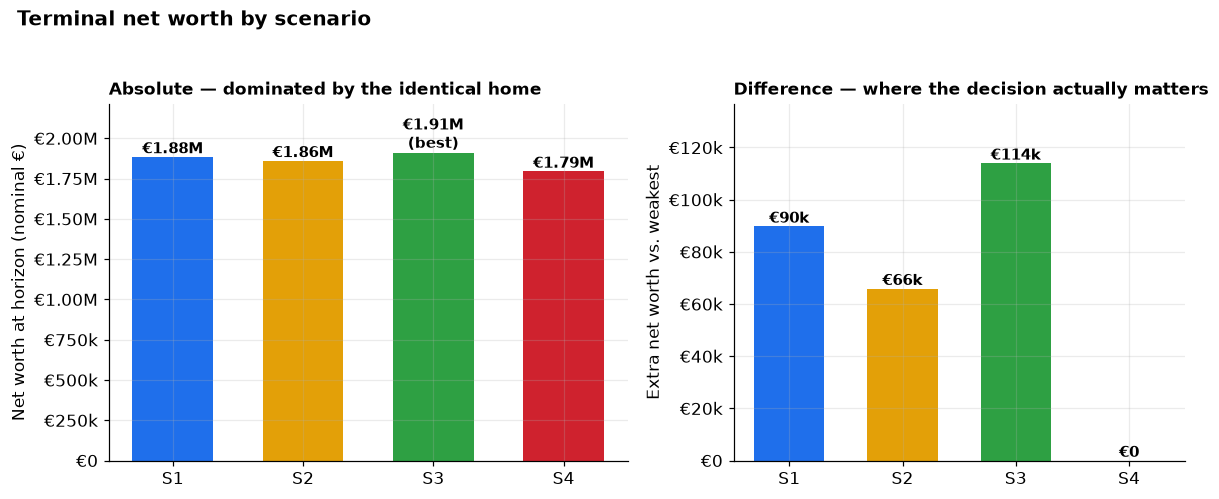
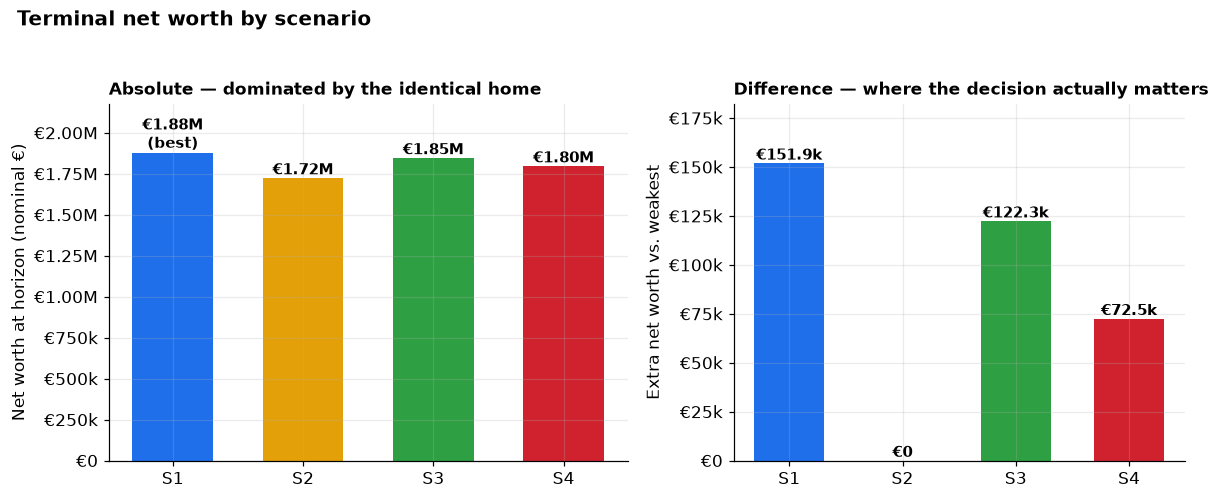
Roll sale/savings equity into home purchases (realistic financing)
Add configurable financing_mode (default roll_equity): down payment uses
all available cash beyond a buffer, so selling home 1 funds home 2 instead
of carrying a second full-size mortgage alongside the annuity (fixes S2's
unrealistic Y5-15 outflow). Update report narrative, assumptions table and
outflow caption; tidy euro axis formatting.

diff --git a/generate_report.py b/generate_report.py
@@ -112,23 +112,28 @@ def build_markdown(A, results, grid, sweep_inv, sweep_app):
       f"the **same debt-free home**, so *every difference is opportunity cost, "
       f"financing and fees — not the house itself.*")
     w()
+    second = ranked[1]
+    gap_top2 = nw[best] - nw[second]
     w("**Two findings dominate:**")
     w()
     w(f"1. **The lijfrente is priced attractively.** Its total outlay "
       f"({eur(lij_total)} = {eur(A.lijfrente_upfront)} up front + "
       f"{eur(A.lijfrente_monthly)} × {A.lijfrente_years * 12} months) is *below* the "
-      f"{eur(A.valuation_now)} market value and is spread over {A.lijfrente_years} "
-      f"years — effectively cheap financing for the very same asset. That is why "
-      f"**buying a normal home now ({sc('s4_buy_normal_now')}) is dominated**: it is "
-      f"the most expensive way to own the identical house.")
-    w(f"2. **The tie-breaker between the two front-runners** "
-      f"({sc('s1_lijfrente_movein')} lijfrente vs {sc('s3_rent_then_normal')} "
-      f"rent-then-buy) is whether your investment return "
-      f"({pct(A.investment_return_annual)}) beats house appreciation "
-      f"({pct(A.house_appreciation_annual)}). It does in the base case, so keeping the "
-      f"{eur(A.cash_capital)} invested longer ({sc('s3_rent_then_normal')}) edges ahead; "
-      f"flip that relationship and the lijfrente ({sc('s1_lijfrente_movein')}) wins "
-      f"(see Exhibit 6).")
+      f"{eur(A.valuation_now)} market value, is spread over {A.lijfrente_years} years, "
+      f"and needs almost no mortgage — effectively cheap financing for the very same "
+      f"asset. Conversely, **buying a normal home now ({sc('s4_buy_normal_now')})** is "
+      f"the most expensive way to own the identical house: the biggest mortgage and the "
+      f"most interest ({eur(results['s4_buy_normal_now'].summary['total_interest'])}).")
+    w(f"2. **The two leaders — {sc(best)} and {sc(second)} — are within "
+      f"{eur(gap_top2)} of each other** (~{gap_top2 / nw[second] * 100:.0f}%), so which "
+      f"one wins is a close call that turns on two levers you control (both editable in "
+      f"`config.py`): **(i)** whether you roll spare cash into the home or keep it "
+      f"invested (`financing_mode`, here *{A.financing_mode}*), and **(ii)** whether your "
+      f"investment return ({pct(A.investment_return_annual)}) beats house appreciation "
+      f"({pct(A.house_appreciation_annual)}). Keeping cash invested and a high investment "
+      f"return favour the rent-then-buy route ({sc('s3_rent_then_normal')}); rolling cash "
+      f"into the home favours the low-mortgage lijfrente ({sc('s1_lijfrente_movein')}). "
+      f"See Exhibits 6–7.")
     w()
 
     # ---------------- exhibit 1 ----------------
@@ -221,8 +226,11 @@ def build_markdown(A, results, grid, sweep_inv, sweep_app):
     w(f"![Exhibit 5 — monthly outflow vs budget]({p_out})")
     w()
     w(f"*Exhibit 5 — Monthly housing outflow vs. the {eur(A.monthly_budget)} budget. "
-      f"{sc('s1_lijfrente_movein')}/{sc('s2_lijfrente_then_normal')} breach the budget "
-      f"heavily in the first years (rent + annuity + mortgage at once).*")
+      f"{sc('s1_lijfrente_movein')}/{sc('s2_lijfrente_then_normal')} exceed the budget "
+      f"in the first 5 years (rent + annuity + mortgage together). After year 5, "
+      f"{sc('s2_lijfrente_then_normal')} rolls its home-1 sale proceeds into home 2, so "
+      f"its outflow is small mortgage + the continuing {eur(A.lijfrente_monthly)}/mo "
+      f"annuity — not a second full mortgage.*")
     w()
 
     # ---------------- sensitivity ----------------
@@ -275,7 +283,13 @@ def build_markdown(A, results, grid, sweep_inv, sweep_app):
         ("Lijfrente annuity", eur(A.lijfrente_monthly) + f" / month for {A.lijfrente_years} years"),
         ("Move-in delay (seller usufruct)", f"{A.move_in_delay_years} years"),
         ("Mortgage rate / term", f"{pct(A.mortgage_rate_annual)} fixed over {A.mortgage_term_years} years"),
-        ("Target down payment", pct(A.down_payment_pct) + " of financed price"),
+        ("Financing mode", f"`{A.financing_mode}`" + (
+            " — roll savings & sale proceeds into the home, keep a cash buffer"
+            if A.financing_mode == "roll_equity"
+            else " — fixed % down, keep the rest invested")),
+        ("Cash buffer kept invested at purchase", eur(A.cash_buffer)
+            if A.financing_mode == "roll_equity" else "n/a"),
+        ("Target down payment (target_down mode)", pct(A.down_payment_pct) + " of financed price"),
         ("Buy costs — own home (Flanders)", pct(A.buy_cost_pct_primary) + " of price"),
         ("Buy costs — lijfrente (non-primary)", pct(A.lijfrente_buy_cost_pct) + " of value"),
         ("Selling costs", pct(A.sell_cost_pct) + " of price"),

diff --git a/config.py b/config.py
@@ -64,10 +64,18 @@ class Assumptions:
     # ------------------------------------------------------------------ #
     mortgage_rate_annual: float = 0.0375        # user estimate; market avg ~4.0%
     mortgage_term_years: int = 25
-    # Target own-funds down payment as a share of the financed price. Whatever
-    # cash you have beyond (down payment + transaction costs) stays invested;
-    # if you have less, you simply put in all you have.
-    down_payment_pct: float = 0.20
+    # How the down payment is sized at each purchase:
+    #   "roll_equity"  -> put down all available cash beyond `cash_buffer`
+    #                     (realistic: savings and any sale proceeds roll into the
+    #                     new home, so a "sell one, buy the next" move carries only
+    #                     a small second mortgage). This is the default.
+    #   "target_down"  -> put down a fixed `down_payment_pct` and keep the rest
+    #                     invested (maximum leverage; optimal only when the
+    #                     investment return safely beats the mortgage rate).
+    financing_mode: str = "roll_equity"
+    down_payment_pct: float = 0.20              # used only in "target_down" mode
+    # Liquid cash kept invested at each purchase (emergency buffer) in "roll_equity".
+    cash_buffer: float = 25_000.0
 
     # ------------------------------------------------------------------ #
     #  TRANSACTION & OWNERSHIP COSTS                                       #

diff --git a/housing_model.py b/housing_model.py
@@ -143,11 +143,16 @@ def simulate(key: str, A: Assumptions) -> Result:
         """Spend cash on down payment + costs, borrow the rest. Mutates state."""
         nonlocal portfolio, mortgage
         costs = cost_base * cost_pct
-        desired_down = A.down_payment_pct * price_for_finance
-        if portfolio >= desired_down + costs:
-            down = desired_down
-        else:                               # not enough cash -> put in all we can
-            down = max(0.0, portfolio - costs)
+        if A.financing_mode == "roll_equity":
+            # roll savings + any sale proceeds into the home, keep a cash buffer
+            down = min(price_for_finance,
+                       max(0.0, portfolio - costs - A.cash_buffer))
+        else:                               # "target_down": fixed % down, invest rest
+            desired_down = A.down_payment_pct * price_for_finance
+            if portfolio >= desired_down + costs:
+                down = desired_down
+            else:                           # not enough cash -> put in all we can
+                down = max(0.0, portfolio - costs)
         loan = max(0.0, price_for_finance - down)
         cash_used = down + costs
         portfolio -= cash_used

diff --git a/charts.py b/charts.py
@@ -38,7 +38,9 @@ def _eur(x, _=None):
     if ax >= 1e6:
         return f"€{x/1e6:.2f}M"
     if ax >= 1e3:
-        return f"€{x/1e3:.0f}k"
+        v = x / 1e3
+        s = f"{v:.0f}k" if abs(v - round(v)) < 1e-9 else f"{v:.1f}k"
+        return "€" + s
     return f"€{x:.0f}"
 
 

diff --git a/REPORT.md b/REPORT.md
@@ -13,14 +13,14 @@
 
 ## The answer, up front
 
-> Under the base-case assumptions, **Rent, then buy normal (S3)** maximises long-run wealth (€1,908,805 at 30y), and **Buy normal now (S4)** is weakest (€1,794,845).
+> Under the base-case assumptions, **Lijfrente + rent, then move in (S1)** maximises long-run wealth (€1,876,557 at 30y), and **Lijfrente + rent, then sell & buy normal (S2)** is weakest (€1,724,696).
 >
-> Ranking: **S3** (€1,908,805) > **S1** (€1,884,624) > **S2** (€1,860,744) > **S4** (€1,794,845). The gap between best and worst is **€113,960** (~6% of net worth). All four scenarios end owning the **same debt-free home**, so *every difference is opportunity cost, financing and fees — not the house itself.*
+> Ranking: **S1** (€1,876,557) > **S3** (€1,847,014) > **S4** (€1,797,150) > **S2** (€1,724,696). The gap between best and worst is **€151,861** (~9% of net worth). All four scenarios end owning the **same debt-free home**, so *every difference is opportunity cost, financing and fees — not the house itself.*
 
 **Two findings dominate:**
 
-1. **The lijfrente is priced attractively.** Its total outlay (€699,600 = €300,000 up front + €2,220 × 180 months) is *below* the €750,000 market value and is spread over 15 years — effectively cheap financing for the very same asset. That is why **buying a normal home now (S4) is dominated**: it is the most expensive way to own the identical house.
-2. **The tie-breaker between the two front-runners** (S1 lijfrente vs S3 rent-then-buy) is whether your investment return (5%) beats house appreciation (3%). It does in the base case, so keeping the €200,000 invested longer (S3) edges ahead; flip that relationship and the lijfrente (S1) wins (see Exhibit 6).
+1. **The lijfrente is priced attractively.** Its total outlay (€699,600 = €300,000 up front + €2,220 × 180 months) is *below* the €750,000 market value, is spread over 15 years, and needs almost no mortgage — effectively cheap financing for the very same asset. Conversely, **buying a normal home now (S4)** is the most expensive way to own the identical house: the biggest mortgage and the most interest (€328,148).
+2. **The two leaders — S1 and S3 — are within €29,543 of each other** (~2%), so which one wins is a close call that turns on two levers you control (both editable in `config.py`): **(i)** whether you roll spare cash into the home or keep it invested (`financing_mode`, here *roll_equity*), and **(ii)** whether your investment return (5%) beats house appreciation (3%). Keeping cash invested and a high investment return favour the rent-then-buy route (S3); rolling cash into the home favours the low-mortgage lijfrente (S1). See Exhibits 6–7.
 
 ## 1 · How much wealth each path builds
 
@@ -40,25 +40,25 @@ Only factors that **differ** between scenarios are shown, in today's money (pres
 
 *Exhibit 3 — Total cash actually paid out over the horizon, by category (nominal). Excludes down payment and mortgage principal, which are recoverable as home equity. Clearest view of the €2,220/mo annuity, rent and interest burden.*
 
-> **Watch the paradox:** S4 has the *lowest* cash out of pocket (€717,132) yet the *lowest* net worth — because it sinks the most capital into a home appreciating at 3% instead of investments earning 5%. Out-of-pocket cost and wealth are not the same thing; opportunity cost is invisible in a bank statement.
+> **Watch the paradox:** S2 has the *lowest* cash out of pocket (€1,180,779) yet the *lowest* net worth — because it sinks the most capital into a home appreciating at 3% instead of investments earning 5%. Out-of-pocket cost and wealth are not the same thing; opportunity cost is invisible in a bank statement.
 
 ## 3 · The numbers
 
 Legend: **S1** = Lijfrente + rent, then move in · **S2** = Lijfrente + rent, then sell & buy normal · **S3** = Rent, then buy normal · **S4** = Buy normal now.
 
-| Metric | S1 | S2 | **S3 ✅** | S4 |
+| Metric | **S1 ✅** | S2 | S3 | S4 |
 |---|---|---|---|---|
-| Net worth at horizon (nominal) | €1,884,624 | €1,860,744 | €1,908,805 | €1,794,845 |
-| Net worth in today's money (PV) | €437,836 | €432,288 | €443,454 | €416,979 |
-| Peak monthly housing outflow | €4,863 | €6,767 | €5,089 | €4,390 |
-| Peak cumulative funding gap \* | €156,869 | €31,310 | €0 | €133,216 |
-| Total mortgage interest | €130,174 | €419,424 | €377,270 | €325,436 |
+| Net worth at horizon (nominal) | €1,876,557 | €1,724,696 | €1,847,014 | €1,797,150 |
+| Net worth in today's money (PV) | €435,962 | €400,681 | €429,099 | €417,514 |
+| Peak monthly housing outflow | €4,773 | €4,880 | €4,210 | €4,416 |
+| Peak cumulative funding gap \* | €169,276 | €135,569 | €0 | €131,410 |
+| Total mortgage interest | €120,683 | €217,271 | €284,474 | €328,148 |
 | Total rent paid | €84,278 | €84,278 | €84,278 | €0 |
 | Total lijfrente annuity | €399,600 | €399,600 | €0 | €0 |
 | Total transaction/selling fees | €97,500 | €158,298 | €34,778 | €30,000 |
 | Total upkeep & property tax | €321,333 | €321,333 | €321,333 | €361,696 |
 
-✅ = recommended scenario (Rent, then buy normal). Note that lower is better for the cost rows, so the recommended column is *not* the smallest in every row — the whole point is that it makes the best overall trade-off.
+✅ = recommended scenario (Lijfrente + rent, then move in). Note that lower is better for the cost rows, so the recommended column is *not* the smallest in every row — the whole point is that it makes the best overall trade-off.
 
 \* Peak cumulative funding gap = the largest amount by which required spending has exceeded the €3,600/mo budget on a compounding basis, i.e. extra savings/borrowing needed on top of budget. A red flag for *affordability*, not for final wealth.
 
@@ -70,7 +70,7 @@ Legend: **S1** = Lijfrente + rent, then move in · **S2** = Lijfrente + rent, th
 
 ![Exhibit 5 — monthly outflow vs budget](report_images/05_outflow.png)
 
-*Exhibit 5 — Monthly housing outflow vs. the €3,600 budget. S1/S2 breach the budget heavily in the first years (rent + annuity + mortgage at once).*
+*Exhibit 5 — Monthly housing outflow vs. the €3,600 budget. S1/S2 exceed the budget in the first 5 years (rent + annuity + mortgage together). After year 5, S2 rolls its home-1 sale proceeds into home 2, so its outflow is small mortgage + the continuing €2,220/mo annuity — not a second full mortgage.*
 
 ## 5 · What could change the answer — sensitivity
 
@@ -86,26 +86,35 @@ The ranking hinges almost entirely on two uncertain numbers: what you earn inves
 
 ## 6 · Risks & qualitative considerations
 
-Ordered best-to-worst on the base-case finances. The financial gaps are modest (~6%) relative to these non-financial factors, which may matter more.
-
-### S3 · Rent, then buy normal
-
-*Rent for 5 years, then buy a normal home.*
-
-- **Lowest strain, most flexible (upside).** Comfortably within budget (peak €5,089/mo, no funding gap). Renting keeps you mobile for 5 years and your €200k stays invested and compounding.
-- **Timing / price risk (high).** You buy in 5 years at an unknown price. If homes appreciate faster than assumed you pay more and this advantage shrinks or reverses (see Exhibit 6).
-- **Rate risk (medium).** The mortgage rate in 5 years is unknown; a materially higher rate would erode the edge.
-- **Rent is 'lost' money (medium).** ≈€84k of rent over 5 years buys no equity — but the invested capital more than compensates while returns exceed appreciation.
+Ordered best-to-worst on the base-case finances. The financial gaps are modest (~9%) relative to these non-financial factors, which may matter more.
 
 ### S1 · Lijfrente + rent, then move in
 
 *Buy the lijfrente home now, rent for 5 years, then move into the lijfrente home and keep it.*
 
-- **Cash-flow strain (high).** For 5 years you pay rent *and* the annuity *and* a mortgage simultaneously — peak outflow €4,863/mo and a cumulative funding gap up to €156,869 that must come from extra savings or income beyond the €3.6k budget.
+- **Cash-flow strain (high).** For 5 years you pay rent *and* the annuity *and* a mortgage simultaneously — peak outflow €4,773/mo and a cumulative funding gap up to €169,276 that must come from extra savings or income beyond the €3.6k budget.
 - **5-year lock-in (high).** You are committed to the lijfrente home and its location years before you can live there. If your life plans change (job, family, city) you are stuck or must sell into scenario 2.
 - **Transaction-tax risk (high).** The home is not your occupied sole dwelling at purchase, so it likely attracts the ~12% registration duty, not the 2% own-home rate. Confirm with a notary — this is ~€75k of swing.
 - **Counterparty / annuity risk (medium).** The construct depends on the seller and contract terms (indexation, what happens on early death, security on the property). Have the deed reviewed.
 - **Upside.** You lock in today's price on a €750k home for a low up-front outlay and spread payments over 15 years — attractive if prices rise or you value certainty of that specific home.
+
+### S3 · Rent, then buy normal
+
+*Rent for 5 years, then buy a normal home.*
+
+- **Lowest strain, most flexible (upside).** Comfortably within budget (peak €4,210/mo, no funding gap). Renting keeps you mobile for 5 years and your €200k stays invested and compounding.
+- **Timing / price risk (high).** You buy in 5 years at an unknown price. If homes appreciate faster than assumed you pay more and this advantage shrinks or reverses (see Exhibit 6).
+- **Rate risk (medium).** The mortgage rate in 5 years is unknown; a materially higher rate would erode the edge.
+- **Rent is 'lost' money (medium).** ≈€84k of rent over 5 years buys no equity — but the invested capital more than compensates while returns exceed appreciation.
+
+### S4 · Buy normal now
+
+*Buy a normal home now and live in it.*
+
+- **Simplest & most secure (upside).** One transaction, no lock-in games, you own and live in your home immediately with full price certainty and stability.
+- **Opportunity cost is the catch (high).** €200k plus every spare euro is tied up in an asset appreciating at 3% instead of investments at 5%; the biggest mortgage means €328,148 of interest.
+- **Budget is tight long-term (medium).** Mortgage + rising upkeep can exceed the €3.6k budget in later years (funding gap up to €131,410), assuming the budget is not raised with income growth.
+- **Wins if property outperforms.** If appreciation meets or beats your investment return, buying now becomes the strongest option — it has the most exposure to the home.
 
 ### S2 · Lijfrente + rent, then sell & buy normal
 
@@ -115,15 +124,6 @@ Ordered best-to-worst on the base-case finances. The financial gaps are modest (
 - **Annuity may continue after sale (high).** Unless the annuity legally transfers to the buyer, you keep paying €2,220/mo for the remaining 10 years on a home you no longer own. Model default assumes it continues; verify the contract.
 - **Only makes sense as a fallback.** This is essentially scenario 1 gone wrong — choose it only if you deliberately want the lijfrente as a 5-year financial bridge and always intended to buy elsewhere.
 - **Speculative CGT risk.** Selling a non-primary home within 5 years can trigger 16.5% capital-gains tax in Belgium. Timing the sale just past 5 years matters.
-
-### S4 · Buy normal now
-
-*Buy a normal home now and live in it.*
-
-- **Simplest & most secure (upside).** One transaction, no lock-in games, you own and live in your home immediately with full price certainty and stability.
-- **Opportunity cost is the catch (high).** €200k plus every spare euro is tied up in an asset appreciating at 3% instead of investments at 5%; the biggest mortgage means €325,436 of interest.
-- **Budget is tight long-term (medium).** Mortgage + rising upkeep can exceed the €3.6k budget in later years (funding gap up to €133,216), assuming the budget is not raised with income growth.
-- **Wins if property outperforms.** If appreciation meets or beats your investment return, buying now becomes the strongest option — it has the most exposure to the home.
 
 ## 7 · Key assumptions
 
@@ -139,7 +139,9 @@ All of these live in `config.py` and can be changed centrally; re-run `python ge
 | Lijfrente annuity | €2,220 / month for 15 years |
 | Move-in delay (seller usufruct) | 5 years |
 | Mortgage rate / term | 3.75% fixed over 25 years |
-| Target down payment | 20% of financed price |
+| Financing mode | `roll_equity` — roll savings & sale proceeds into the home, keep a cash buffer |
+| Cash buffer kept invested at purchase | €25,000 |
+| Target down payment (target_down mode) | 20% of financed price |
 | Buy costs — own home (Flanders) | 4% of price |
 | Buy costs — lijfrente (non-primary) | 13% of value |
 | Selling costs | 3% of price |

diff --git a/README.md b/README.md
@@ -69,5 +69,9 @@ and fees* — which is exactly what the value bridge isolates.
   continuing. Toggle `lijfrente_annuity_continues_after_sale`.
 - The monthly **budget is fixed in nominal terms** (no income growth) and
   portfolio surpluses/shortfalls both accrue at the investment return.
+- **Financing mode** (`financing_mode`) is pivotal to the S1-vs-S3 ranking:
+  `roll_equity` (default) rolls savings and any sale proceeds into the home
+  (so a "sell one, buy the next" move carries only a small second mortgage);
+  `target_down` instead keeps cash invested behind a minimum down payment.
 
 Not financial advice — a planning model to compare structural trade-offs.
